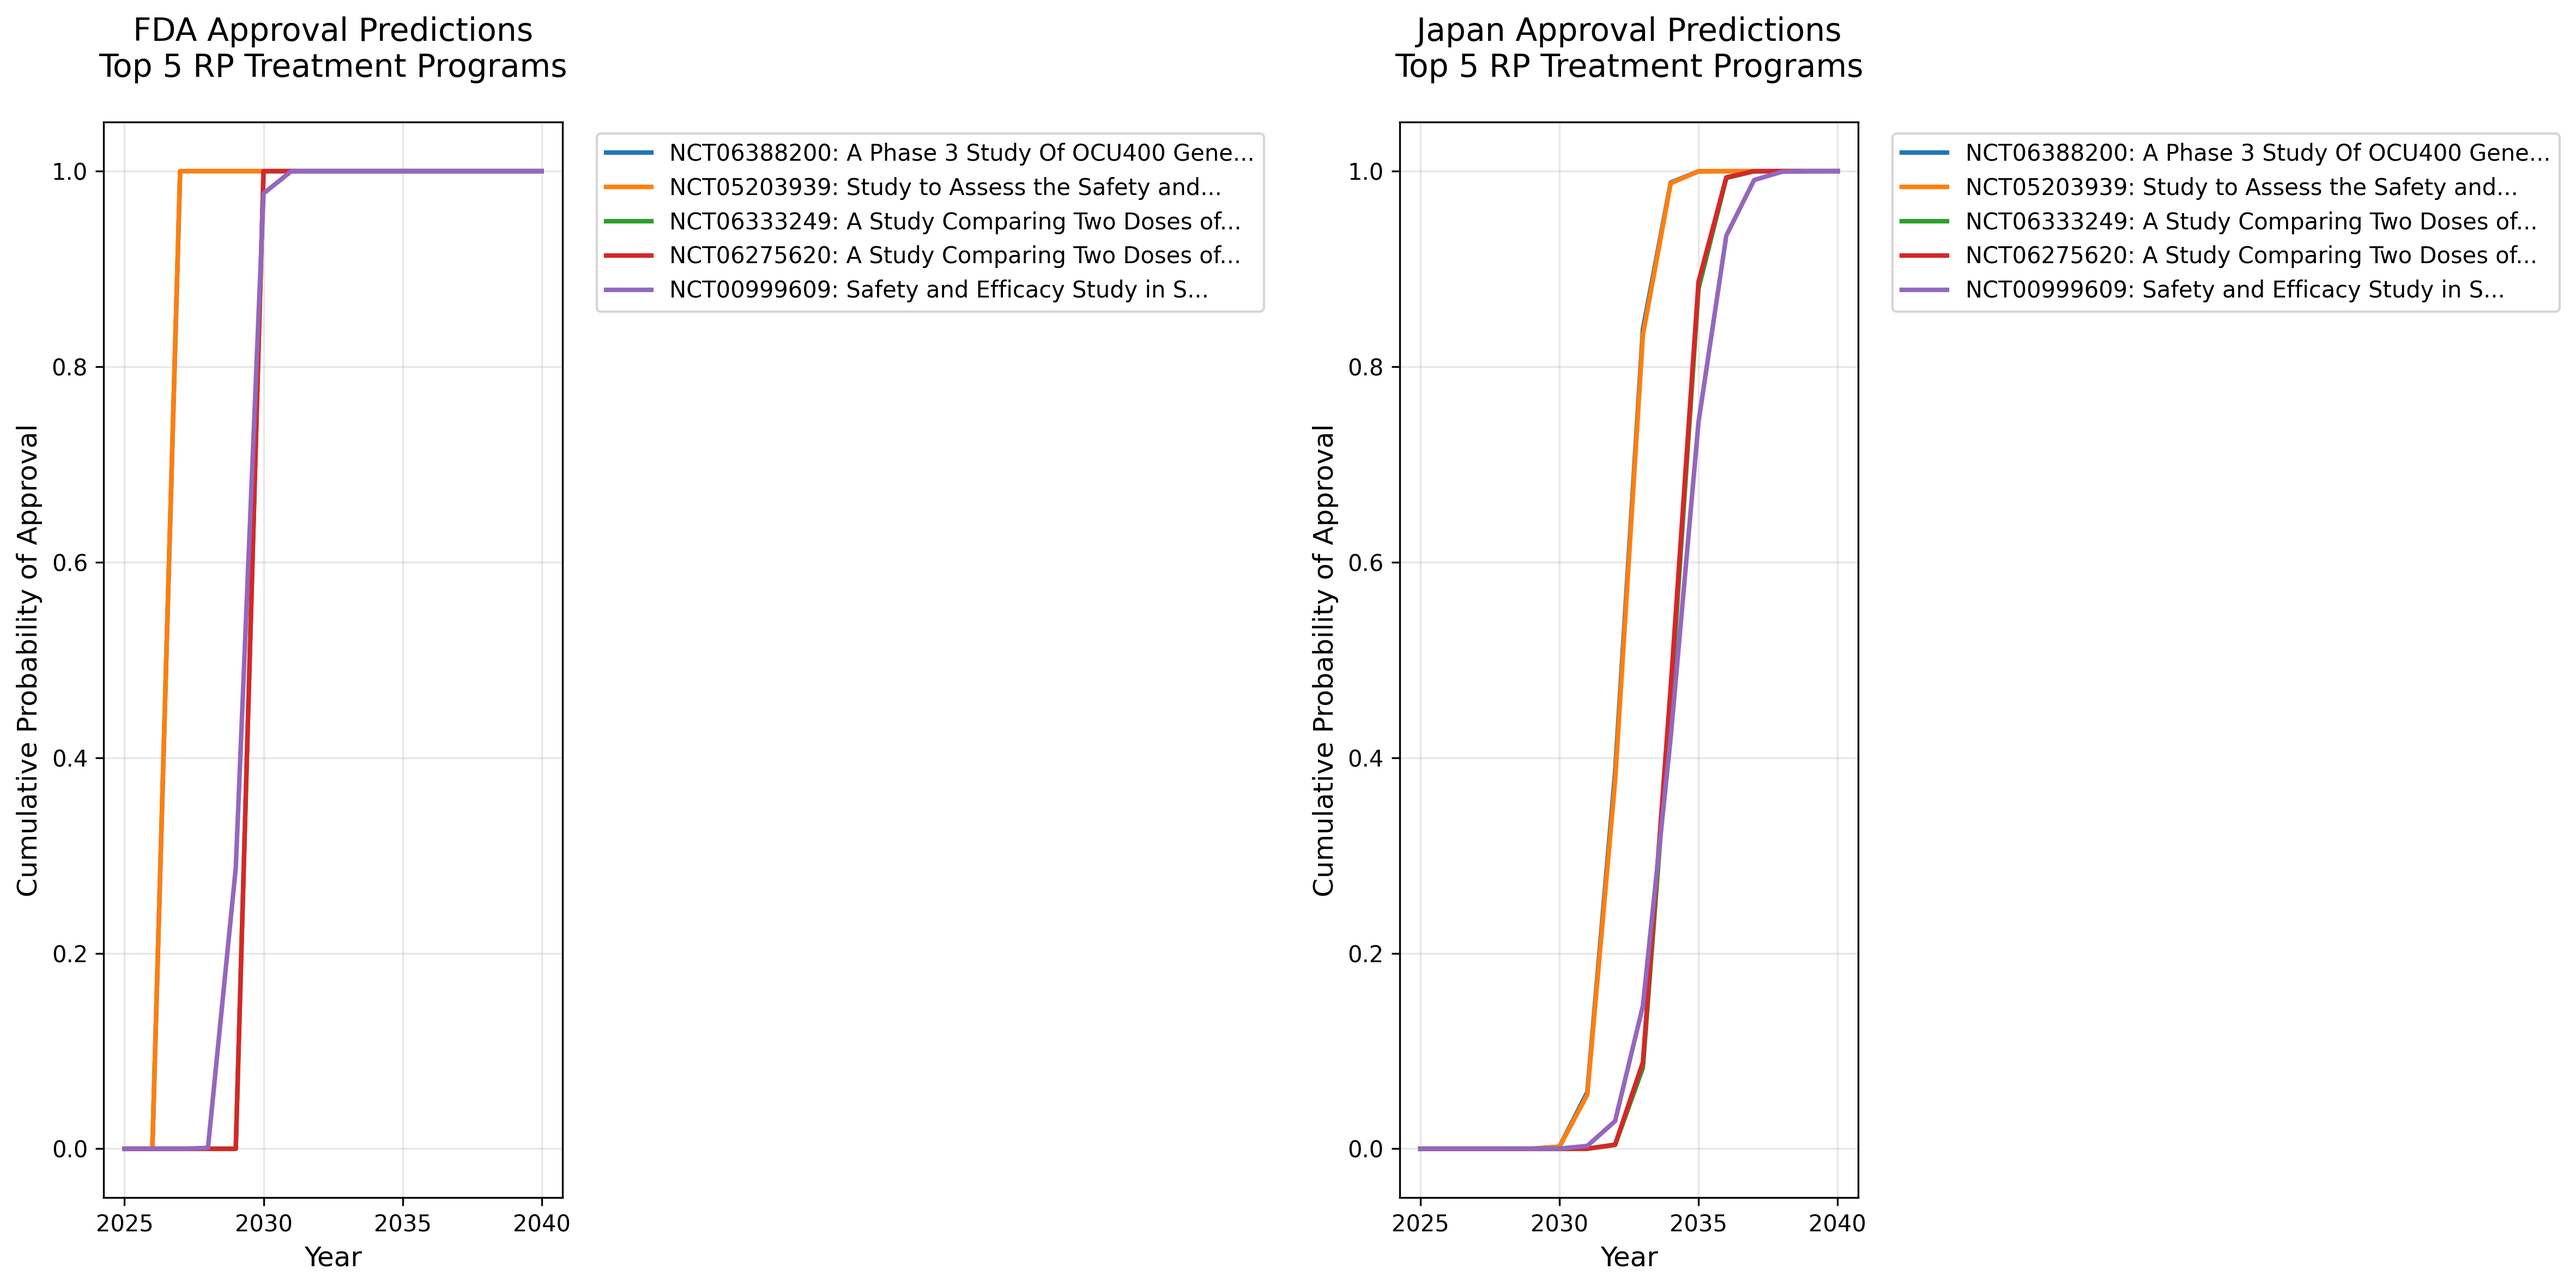
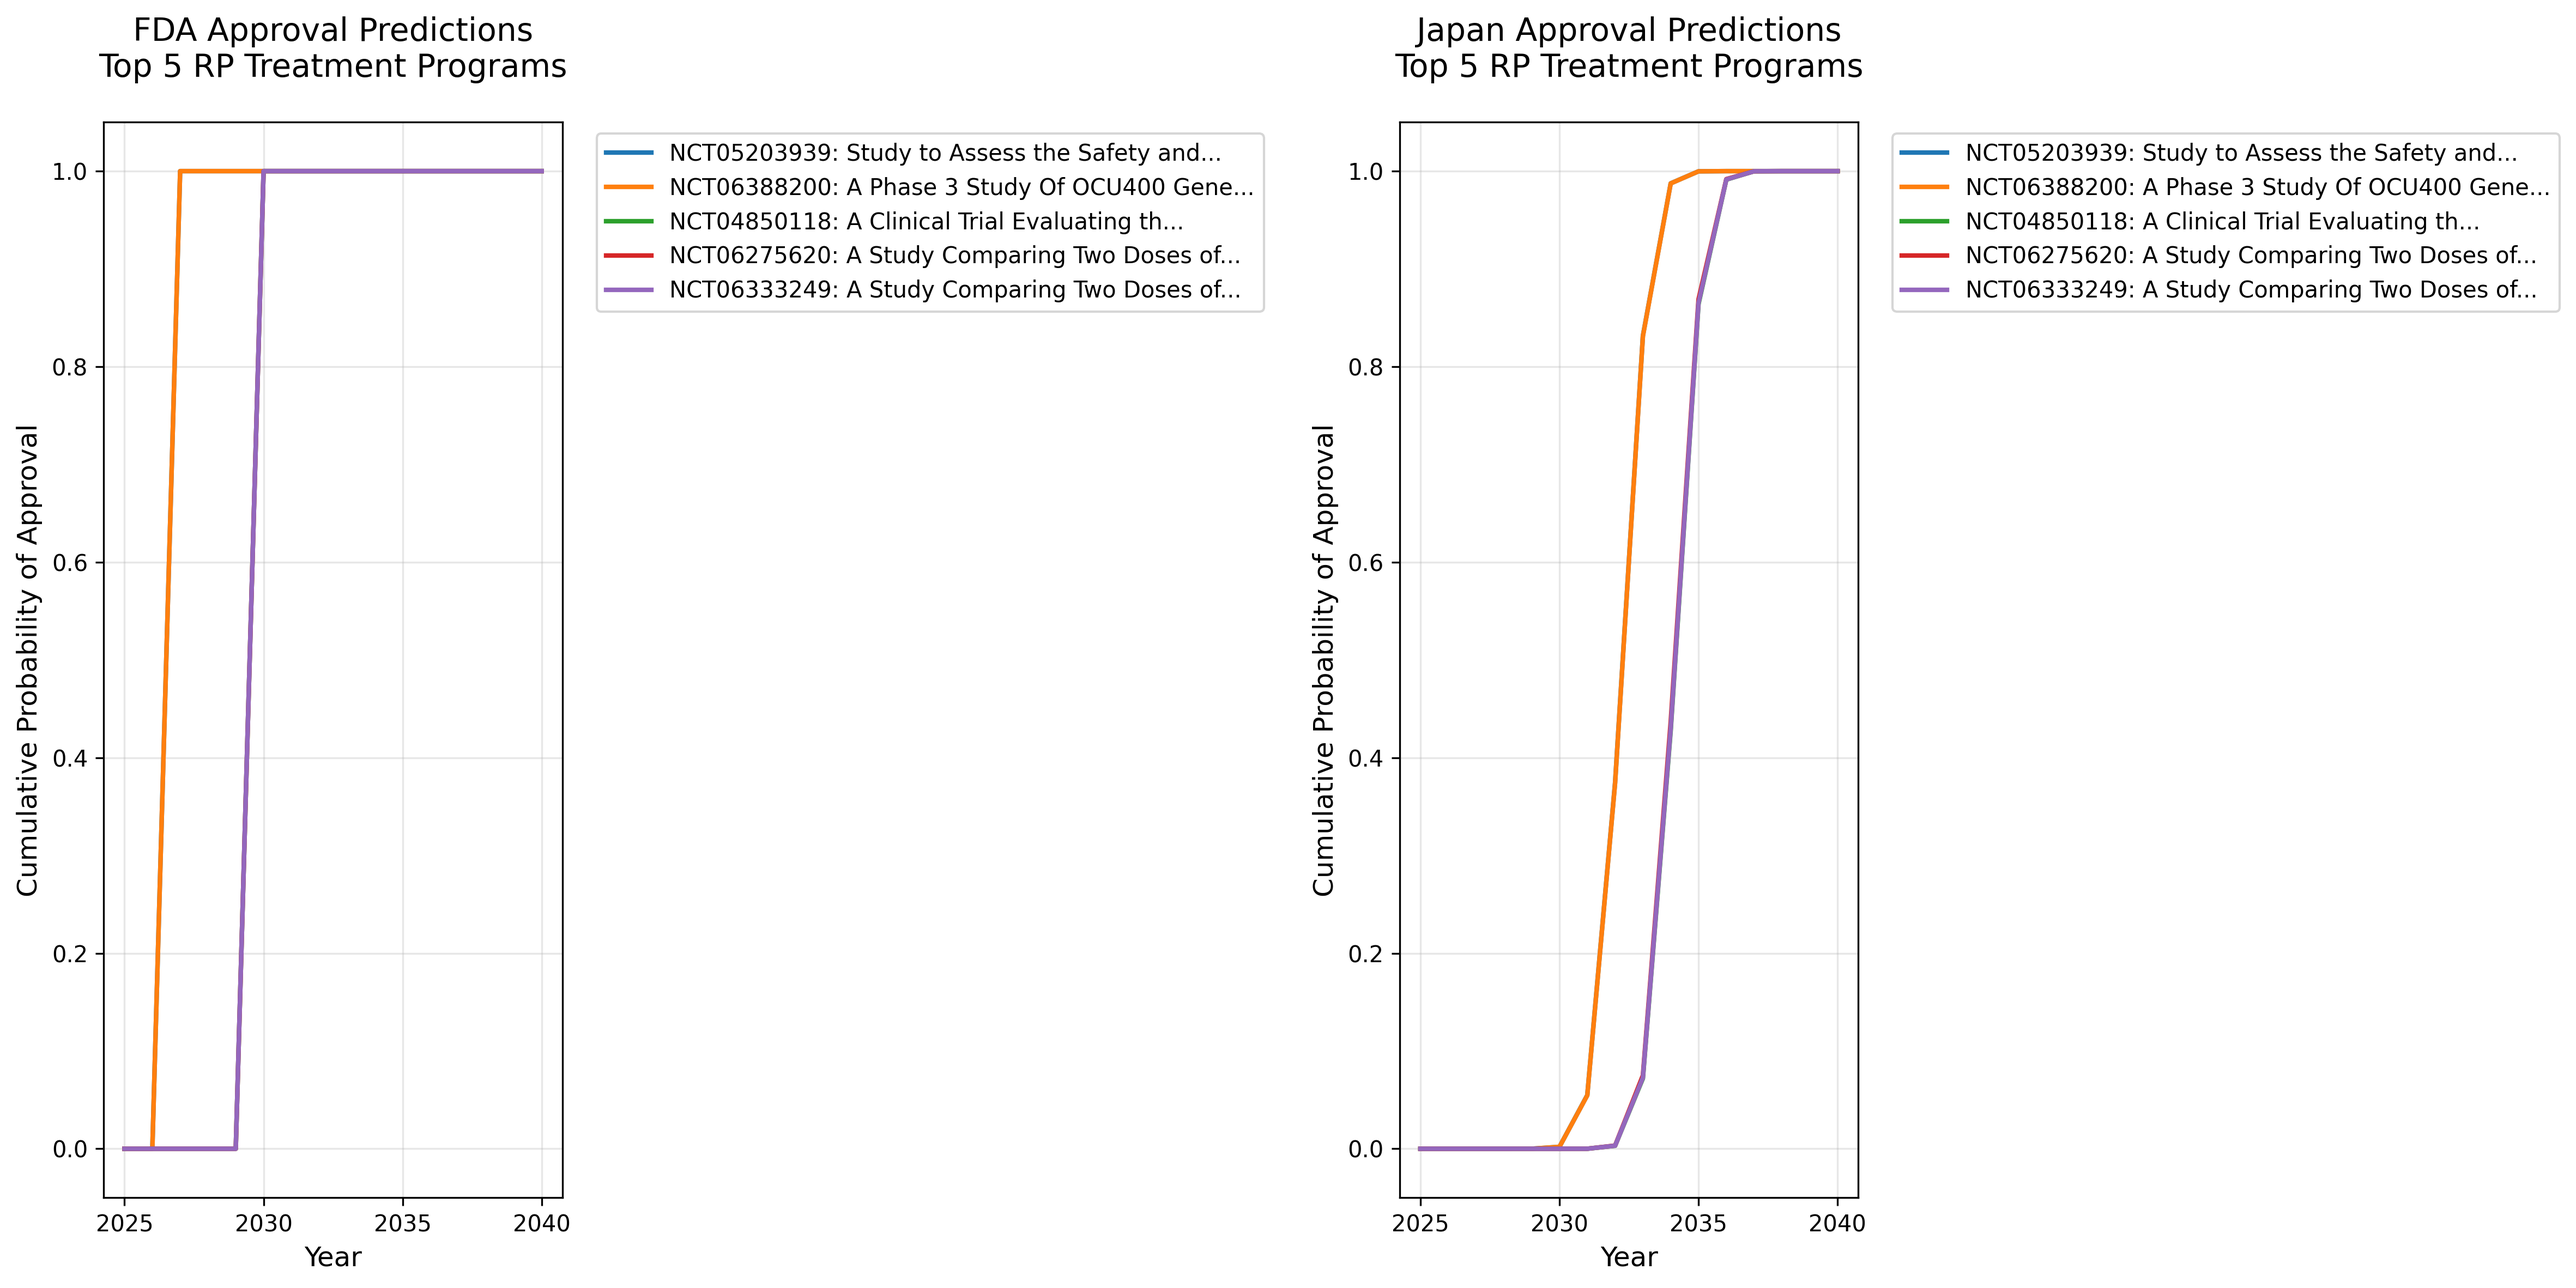
deploy: c2d27df48927df526d755121bc4e49d9cbd63b08

diff --git a/public/index_old.html b/public/index_old.html
@@ -121,7 +121,7 @@
         </nav>
         
         <h1>網膜色素変性症（RP）治療開発ロードマップ</h1>
-<p>生成日時: 2025年07月25日 10:48</p>
+<p>生成日時: 2025年08月18日 05:12</p>
 <h2>エグゼクティブサマリー</h2>
 <p>本レポートは、網膜色素変性症（Retinitis Pigmentosa, RP）の治療法開発状況を定量的に分析し、効果的な治療法がいつ頃利用可能になるかを予測したものです。</p>
 <h3>主要な発見（米国FDA承認基準）</h3>
@@ -141,13 +141,13 @@
 <ul>
 <li><strong>データソース</strong>: ClinicalTrials.gov</li>
 <li><strong>総試験数</strong>: 128件</li>
-<li><strong>アクティブな試験</strong>: 50件</li>
+<li><strong>アクティブな試験</strong>: 49件</li>
 <li><strong>完了した試験</strong>: 52件</li>
 </ul>
 <h3>文献データ</h3>
 <ul>
 <li><strong>データソース</strong>: PubMed</li>
-<li><strong>総論文数</strong>: 808件</li>
+<li><strong>総論文数</strong>: 800件</li>
 <li><strong>検索クエリ</strong>: "retinitis pigmentosa" AND ("gene therapy" OR "cell therapy")</li>
 <li><strong>期間</strong>: 1993-2025年</li>
 </ul>
@@ -166,7 +166,7 @@
 </tr>
 <tr>
 <td>2024</td>
-<td data-label="論文数">64</td>
+<td data-label="論文数">62</td>
 </tr>
 <tr>
 <td>2023</td>
@@ -174,11 +174,11 @@
 </tr>
 <tr>
 <td>2022</td>
-<td data-label="論文数">67</td>
+<td data-label="論文数">66</td>
 </tr>
 <tr>
 <td>2021</td>
-<td data-label="論文数">64</td>
+<td data-label="論文数">63</td>
 </tr>
 </tbody>
 </table>
@@ -205,16 +205,6 @@
 </thead>
 <tbody>
 <tr>
-<td>NCT06388200</td>
-<td data-label="治療法名">A Phase 3 Study Of OCU400 Gene Therapy f...</td>
-<td data-label="フェーズ">PHASE3</td>
-<td data-label="スポンサー">Ocugen</td>
-<td data-label="成功率">100.0%</td>
-<td data-label="FDA承認予測（中央値）">2027年</td>
-<td data-label="日本承認予測（中央値）">2032年</td>
-<td data-label="90%信頼区間（FDA）">[2027, 2027]</td>
-</tr>
-<tr>
 <td>NCT05203939</td>
 <td data-label="治療法名">Study to Assess the Safety and Efficacy ...</td>
 <td data-label="フェーズ">PHASE1, PHASE2</td>
@@ -225,9 +215,19 @@
 <td data-label="90%信頼区間（FDA）">[2027, 2027]</td>
 </tr>
 <tr>
-<td>NCT06333249</td>
-<td data-label="治療法名">A Study Comparing Two Doses of AGTC-501 ...</td>
-<td data-label="フェーズ">PHASE2</td>
+<td>NCT06388200</td>
+<td data-label="治療法名">A Phase 3 Study Of OCU400 Gene Therapy f...</td>
+<td data-label="フェーズ">PHASE3</td>
+<td data-label="スポンサー">Ocugen</td>
+<td data-label="成功率">100.0%</td>
+<td data-label="FDA承認予測（中央値）">2027年</td>
+<td data-label="日本承認予測（中央値）">2032年</td>
+<td data-label="90%信頼区間（FDA）">[2027, 2027]</td>
+</tr>
+<tr>
+<td>NCT04850118</td>
+<td data-label="治療法名">A Clinical Trial Evaluating the Safety a...</td>
+<td data-label="フェーズ">PHASE2, PHASE3</td>
 <td data-label="スポンサー">Beacon Therapeutics</td>
 <td data-label="成功率">100.0%</td>
 <td data-label="FDA承認予測（中央値）">2029年</td>
@@ -245,24 +245,24 @@
 <td data-label="90%信頼区間（FDA）">[2029, 2029]</td>
 </tr>
 <tr>
-<td>NCT00999609</td>
-<td data-label="治療法名">Safety and Efficacy Study in Subjects Wi...</td>
-<td data-label="フェーズ">PHASE3</td>
-<td data-label="スポンサー">Spark Therapeutics, Inc.</td>
-<td data-label="成功率">70.6%</td>
-<td data-label="FDA承認予測（中央値）">2029年</td>
-<td data-label="日本承認予測（中央値）">2034年</td>
-<td data-label="90%信頼区間（FDA）">[2029, 2030]</td>
-</tr>
-<tr>
-<td>NCT04850118</td>
-<td data-label="治療法名">A Clinical Trial Evaluating the Safety a...</td>
-<td data-label="フェーズ">PHASE2, PHASE3</td>
+<td>NCT06333249</td>
+<td data-label="治療法名">A Study Comparing Two Doses of AGTC-501 ...</td>
+<td data-label="フェーズ">PHASE2</td>
 <td data-label="スポンサー">Beacon Therapeutics</td>
 <td data-label="成功率">100.0%</td>
 <td data-label="FDA承認予測（中央値）">2029年</td>
 <td data-label="日本承認予測（中央値）">2034年</td>
 <td data-label="90%信頼区間（FDA）">[2029, 2029]</td>
+</tr>
+<tr>
+<td>NCT00999609</td>
+<td data-label="治療法名">Safety and Efficacy Study in Subjects Wi...</td>
+<td data-label="フェーズ">PHASE3</td>
+<td data-label="スポンサー">Spark Therapeutics, Inc.</td>
+<td data-label="成功率">70.4%</td>
+<td data-label="FDA承認予測（中央値）">2029年</td>
+<td data-label="日本承認予測（中央値）">2034年</td>
+<td data-label="90%信頼区間（FDA）">[2029, 2030]</td>
 </tr>
 <tr>
 <td>NCT06852963</td>
@@ -289,20 +289,20 @@
 <td data-label="治療法名">Oral N-acetylcysteine for Retinitis Pigm...</td>
 <td data-label="フェーズ">PHASE3</td>
 <td data-label="スポンサー">Johns Hopkins University</td>
-<td data-label="成功率">71.1%</td>
-<td data-label="FDA承認予測（中央値）">2031年</td>
-<td data-label="日本承認予測（中央値）">2036年</td>
-<td data-label="90%信頼区間（FDA）">[2031, 2032]</td>
+<td data-label="成功率">71.7%</td>
+<td data-label="FDA承認予測（中央値）">2032年</td>
+<td data-label="日本承認予測（中央値）">2037年</td>
+<td data-label="90%信頼区間（FDA）">[2031, 2033]</td>
 </tr>
 <tr>
 <td>NCT07082855</td>
 <td data-label="治療法名">A Multicenter, Randomized, Double-Blind,...</td>
 <td data-label="フェーズ">PHASE3</td>
 <td data-label="スポンサー">Zhongshan Ophthalmic Center, Sun Yat-sen University</td>
-<td data-label="成功率">71.9%</td>
-<td data-label="FDA承認予測（中央値）">2031年</td>
-<td data-label="日本承認予測（中央値）">2036年</td>
-<td data-label="90%信頼区間（FDA）">[2031, 2032]</td>
+<td data-label="成功率">70.6%</td>
+<td data-label="FDA承認予測（中央値）">2032年</td>
+<td data-label="日本承認予測（中央値）">2037年</td>
+<td data-label="90%信頼区間（FDA）">[2031, 2033]</td>
 </tr>
 </tbody>
 </table>
@@ -320,13 +320,6 @@
 </thead>
 <tbody>
 <tr>
-<td>NCT06388200</td>
-<td data-label="FDA承認予測">2027年</td>
-<td data-label="日本承認予測（中央値）"><strong>2032年</strong></td>
-<td data-label="日本承認90%信頼区間">[2031, 2033]</td>
-<td data-label="遅延期間（中央値）">+5.0年</td>
-</tr>
-<tr>
 <td>NCT05203939</td>
 <td data-label="FDA承認予測">2027年</td>
 <td data-label="日本承認予測（中央値）"><strong>2032年</strong></td>
@@ -334,7 +327,14 @@
 <td data-label="遅延期間（中央値）">+5.0年</td>
 </tr>
 <tr>
-<td>NCT06333249</td>
+<td>NCT06388200</td>
+<td data-label="FDA承認予測">2027年</td>
+<td data-label="日本承認予測（中央値）"><strong>2032年</strong></td>
+<td data-label="日本承認90%信頼区間">[2031, 2033]</td>
+<td data-label="遅延期間（中央値）">+5.0年</td>
+</tr>
+<tr>
+<td>NCT04850118</td>
 <td data-label="FDA承認予測">2029年</td>
 <td data-label="日本承認予測（中央値）"><strong>2034年</strong></td>
 <td data-label="日本承認90%信頼区間">[2033, 2035]</td>
@@ -348,10 +348,10 @@
 <td data-label="遅延期間（中央値）">+5.0年</td>
 </tr>
 <tr>
-<td>NCT00999609</td>
+<td>NCT06333249</td>
 <td data-label="FDA承認予測">2029年</td>
 <td data-label="日本承認予測（中央値）"><strong>2034年</strong></td>
-<td data-label="日本承認90%信頼区間">[2033, 2036]</td>
+<td data-label="日本承認90%信頼区間">[2033, 2035]</td>
 <td data-label="遅延期間（中央値）">+5.0年</td>
 </tr>
 </tbody>
@@ -381,10 +381,11 @@
 <p><img alt="トルネード図" src="images/tornado.png"/></p>
 <h3>主要な影響要因</h3>
 <ul>
-<li><strong>PHASE1 duration</strong> (increase 20%): +1.0年の影響</li>
-<li><strong>PHASE2 duration</strong> (increase 20%): +1.0年の影響</li>
-<li><strong>PHASE3 duration</strong> (increase 20%): +1.0年の影響</li>
-<li><strong>regulatory review</strong> (increase 20%): +0.2年の影響</li>
+<li><strong>PHASE3 duration</strong> (increase 20%): +0.8年の影響</li>
+<li><strong>BLA MAA submission</strong> (increase 20%): +0.6年の影響</li>
+<li><strong>regulatory review</strong> (increase 20%): +0.6年の影響</li>
+<li><strong>PHASE1 duration</strong> (increase 20%): +0.4年の影響</li>
+<li><strong>PHASE2 duration</strong> (increase 20%): +0.4年の影響</li>
 </ul>
 <h2>4. 予測の可視化</h2>
 <h3>累積承認確率</h3>

diff --git a/content/main/index.md b/content/main/index.md
@@ -1,6 +1,6 @@
 # 網膜色素変性症（RP）治療開発ロードマップ
 
-生成日時: 2025年07月25日 10:48
+生成日時: 2025年08月18日 05:12
 
 ## エグゼクティブサマリー
 
@@ -24,12 +24,12 @@
 ### 臨床試験データ
 - **データソース**: ClinicalTrials.gov
 - **総試験数**: 128件
-- **アクティブな試験**: 50件
+- **アクティブな試験**: 49件
 - **完了した試験**: 52件
 
 ### 文献データ
 - **データソース**: PubMed
-- **総論文数**: 808件
+- **総論文数**: 800件
 - **検索クエリ**: "retinitis pigmentosa" AND ("gene therapy" OR "cell therapy")
 - **期間**: 1993-2025年
 
@@ -37,10 +37,10 @@
 | 年 | 論文数 |
 |---|--------|
 | 2025 | 45 |
-| 2024 | 64 |
+| 2024 | 62 |
 | 2023 | 98 |
-| 2022 | 67 |
-| 2021 | 64 |
+| 2022 | 66 |
+| 2021 | 63 |
 
 
 ## 2. モンテカルロシミュレーション結果
@@ -54,16 +54,16 @@
 
 | 試験ID | 治療法名 | フェーズ | スポンサー | 成功率 | FDA承認予測（中央値） | 日本承認予測（中央値） | 90%信頼区間（FDA） |
 |--------|----------|----------|------------|--------|---------------------|---------------------|------------------|
-| NCT06388200 | A Phase 3 Study Of OCU400 Gene Therapy f... | PHASE3 | Ocugen | 100.0% | 2027年 | 2032年 | [2027, 2027] |
 | NCT05203939 | Study to Assess the Safety and Efficacy ... | PHASE1, PHASE2 | Ocugen | 100.0% | 2027年 | 2032年 | [2027, 2027] |
-| NCT06333249 | A Study Comparing Two Doses of AGTC-501 ... | PHASE2 | Beacon Therapeutics | 100.0% | 2029年 | 2034年 | [2029, 2029] |
-| NCT06275620 | A Study Comparing Two Doses of AGTC-501 ... | PHASE2 | Beacon Therapeutics | 100.0% | 2029年 | 2034年 | [2029, 2029] |
-| NCT00999609 | Safety and Efficacy Study in Subjects Wi... | PHASE3 | Spark Therapeutics, Inc. | 70.6% | 2029年 | 2034年 | [2029, 2030] |
+| NCT06388200 | A Phase 3 Study Of OCU400 Gene Therapy f... | PHASE3 | Ocugen | 100.0% | 2027年 | 2032年 | [2027, 2027] |
 | NCT04850118 | A Clinical Trial Evaluating the Safety a... | PHASE2, PHASE3 | Beacon Therapeutics | 100.0% | 2029年 | 2034年 | [2029, 2029] |
+| NCT06275620 | A Study Comparing Two Doses of AGTC-501 ... | PHASE2 | Beacon Therapeutics | 100.0% | 2029年 | 2034年 | [2029, 2029] |
+| NCT06333249 | A Study Comparing Two Doses of AGTC-501 ... | PHASE2 | Beacon Therapeutics | 100.0% | 2029年 | 2034年 | [2029, 2029] |
+| NCT00999609 | Safety and Efficacy Study in Subjects Wi... | PHASE3 | Spark Therapeutics, Inc. | 70.4% | 2029年 | 2034年 | [2029, 2030] |
 | NCT06852963 | A Study of Two Doses of VP-001 Administe... | PHASE1, PHASE2 | PYC Therapeutics | 100.0% | 2030年 | 2035年 | [2029, 2030] |
 | NCT06455826 | MAD of IVT VP-001 in PRPF31 Mutation-Ass... | PHASE1 | PYC Therapeutics | 100.0% | 2030年 | 2035年 | [2029, 2030] |
-| NCT05537220 | Oral N-acetylcysteine for Retinitis Pigm... | PHASE3 | Johns Hopkins University | 71.1% | 2031年 | 2036年 | [2031, 2032] |
-| NCT07082855 | A Multicenter, Randomized, Double-Blind,... | PHASE3 | Zhongshan Ophthalmic Center, Sun Yat-sen University | 71.9% | 2031年 | 2036年 | [2031, 2032] |
+| NCT05537220 | Oral N-acetylcysteine for Retinitis Pigm... | PHASE3 | Johns Hopkins University | 71.7% | 2032年 | 2037年 | [2031, 2033] |
+| NCT07082855 | A Multicenter, Randomized, Double-Blind,... | PHASE3 | Zhongshan Ophthalmic Center, Sun Yat-sen University | 70.6% | 2032年 | 2037年 | [2031, 2033] |
 
 
 ### 日本での承認予測
@@ -72,11 +72,11 @@
 
 | 治療法 | FDA承認予測 | 日本承認予測（中央値） | 日本承認90%信頼区間 | 遅延期間（中央値） |
 |--------|------------|---------------------|-------------------|---------------------|
-| NCT06388200 | 2027年 | **2032年** | [2031, 2033] | +5.0年 |
 | NCT05203939 | 2027年 | **2032年** | [2031, 2033] | +5.0年 |
-| NCT06333249 | 2029年 | **2034年** | [2033, 2035] | +5.0年 |
+| NCT06388200 | 2027年 | **2032年** | [2031, 2033] | +5.0年 |
+| NCT04850118 | 2029年 | **2034年** | [2033, 2035] | +5.0年 |
 | NCT06275620 | 2029年 | **2034年** | [2033, 2035] | +5.0年 |
-| NCT00999609 | 2029年 | **2034年** | [2033, 2036] | +5.0年 |
+| NCT06333249 | 2029年 | **2034年** | [2033, 2035] | +5.0年 |
 
 
 詳細は[地域別承認予測タイムライン](regional_approval_timeline.html)をご覧ください。
@@ -105,10 +105,11 @@
 ![トルネード図](images/tornado.png)
 
 ### 主要な影響要因
-- **PHASE1 duration** (increase 20%): +1.0年の影響
-- **PHASE2 duration** (increase 20%): +1.0年の影響
-- **PHASE3 duration** (increase 20%): +1.0年の影響
-- **regulatory review** (increase 20%): +0.2年の影響
+- **PHASE3 duration** (increase 20%): +0.8年の影響
+- **BLA MAA submission** (increase 20%): +0.6年の影響
+- **regulatory review** (increase 20%): +0.6年の影響
+- **PHASE1 duration** (increase 20%): +0.4年の影響
+- **PHASE2 duration** (increase 20%): +0.4年の影響
 
 
 ## 4. 予測の可視化
